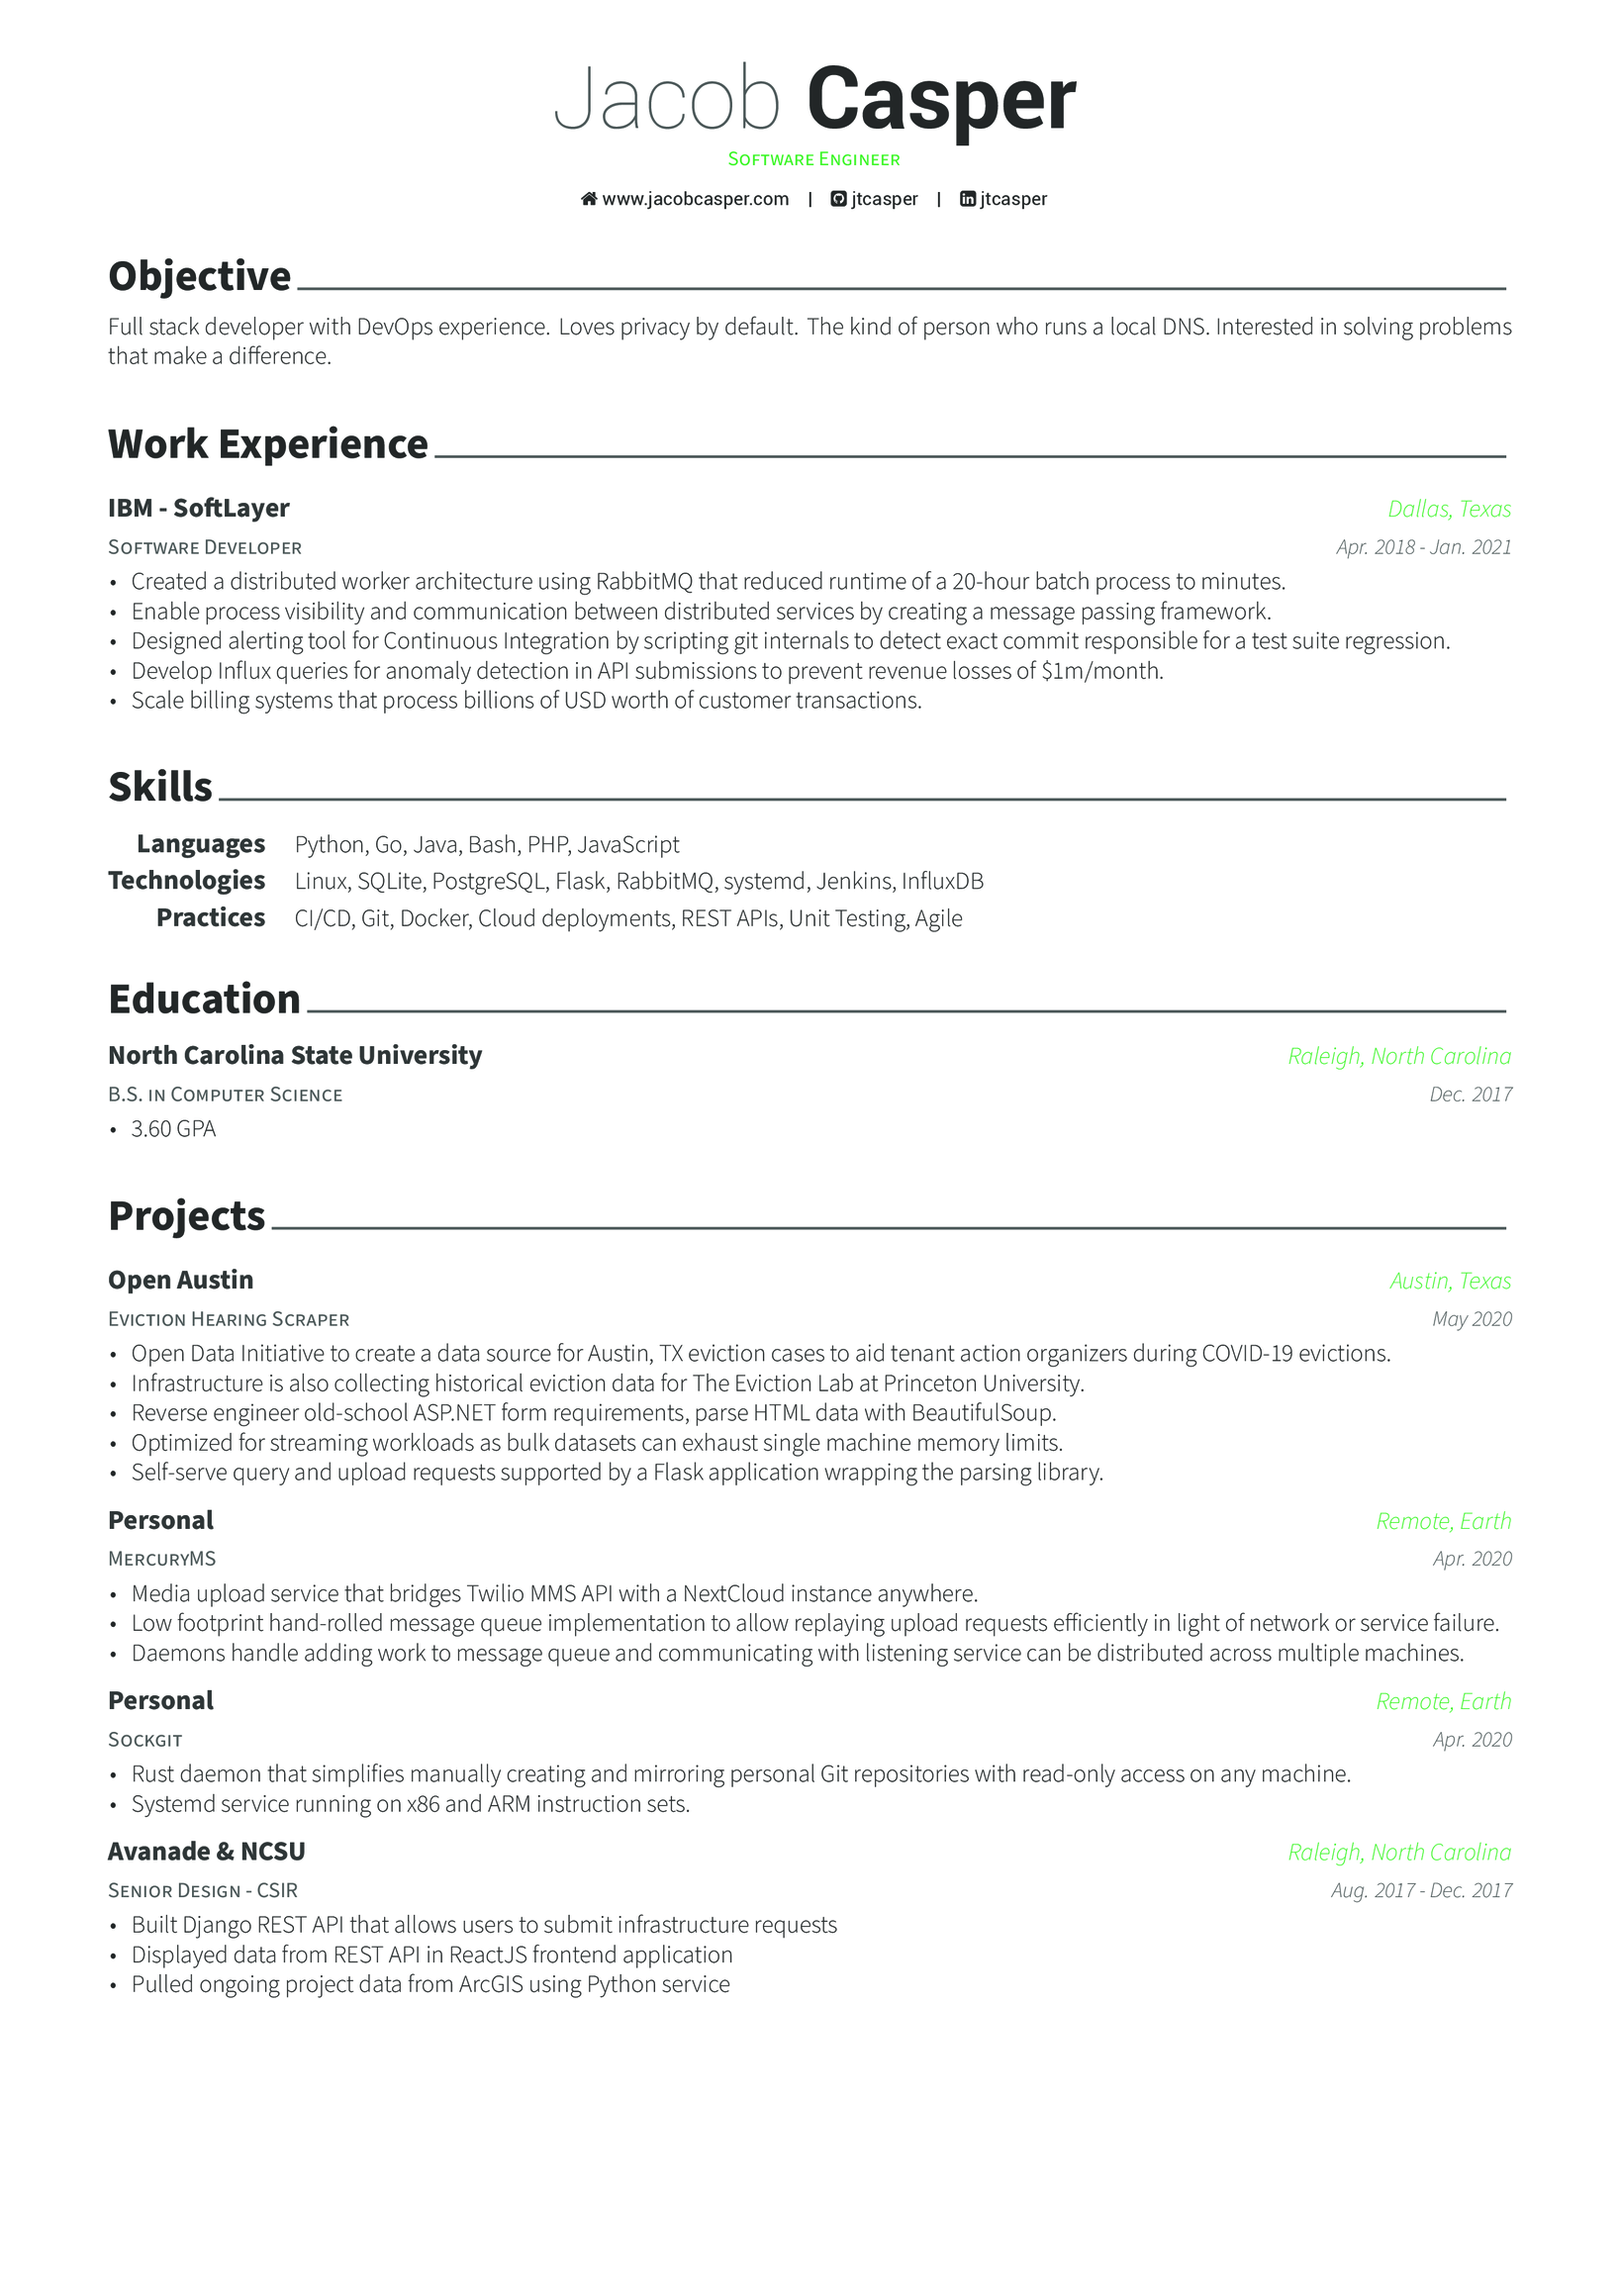
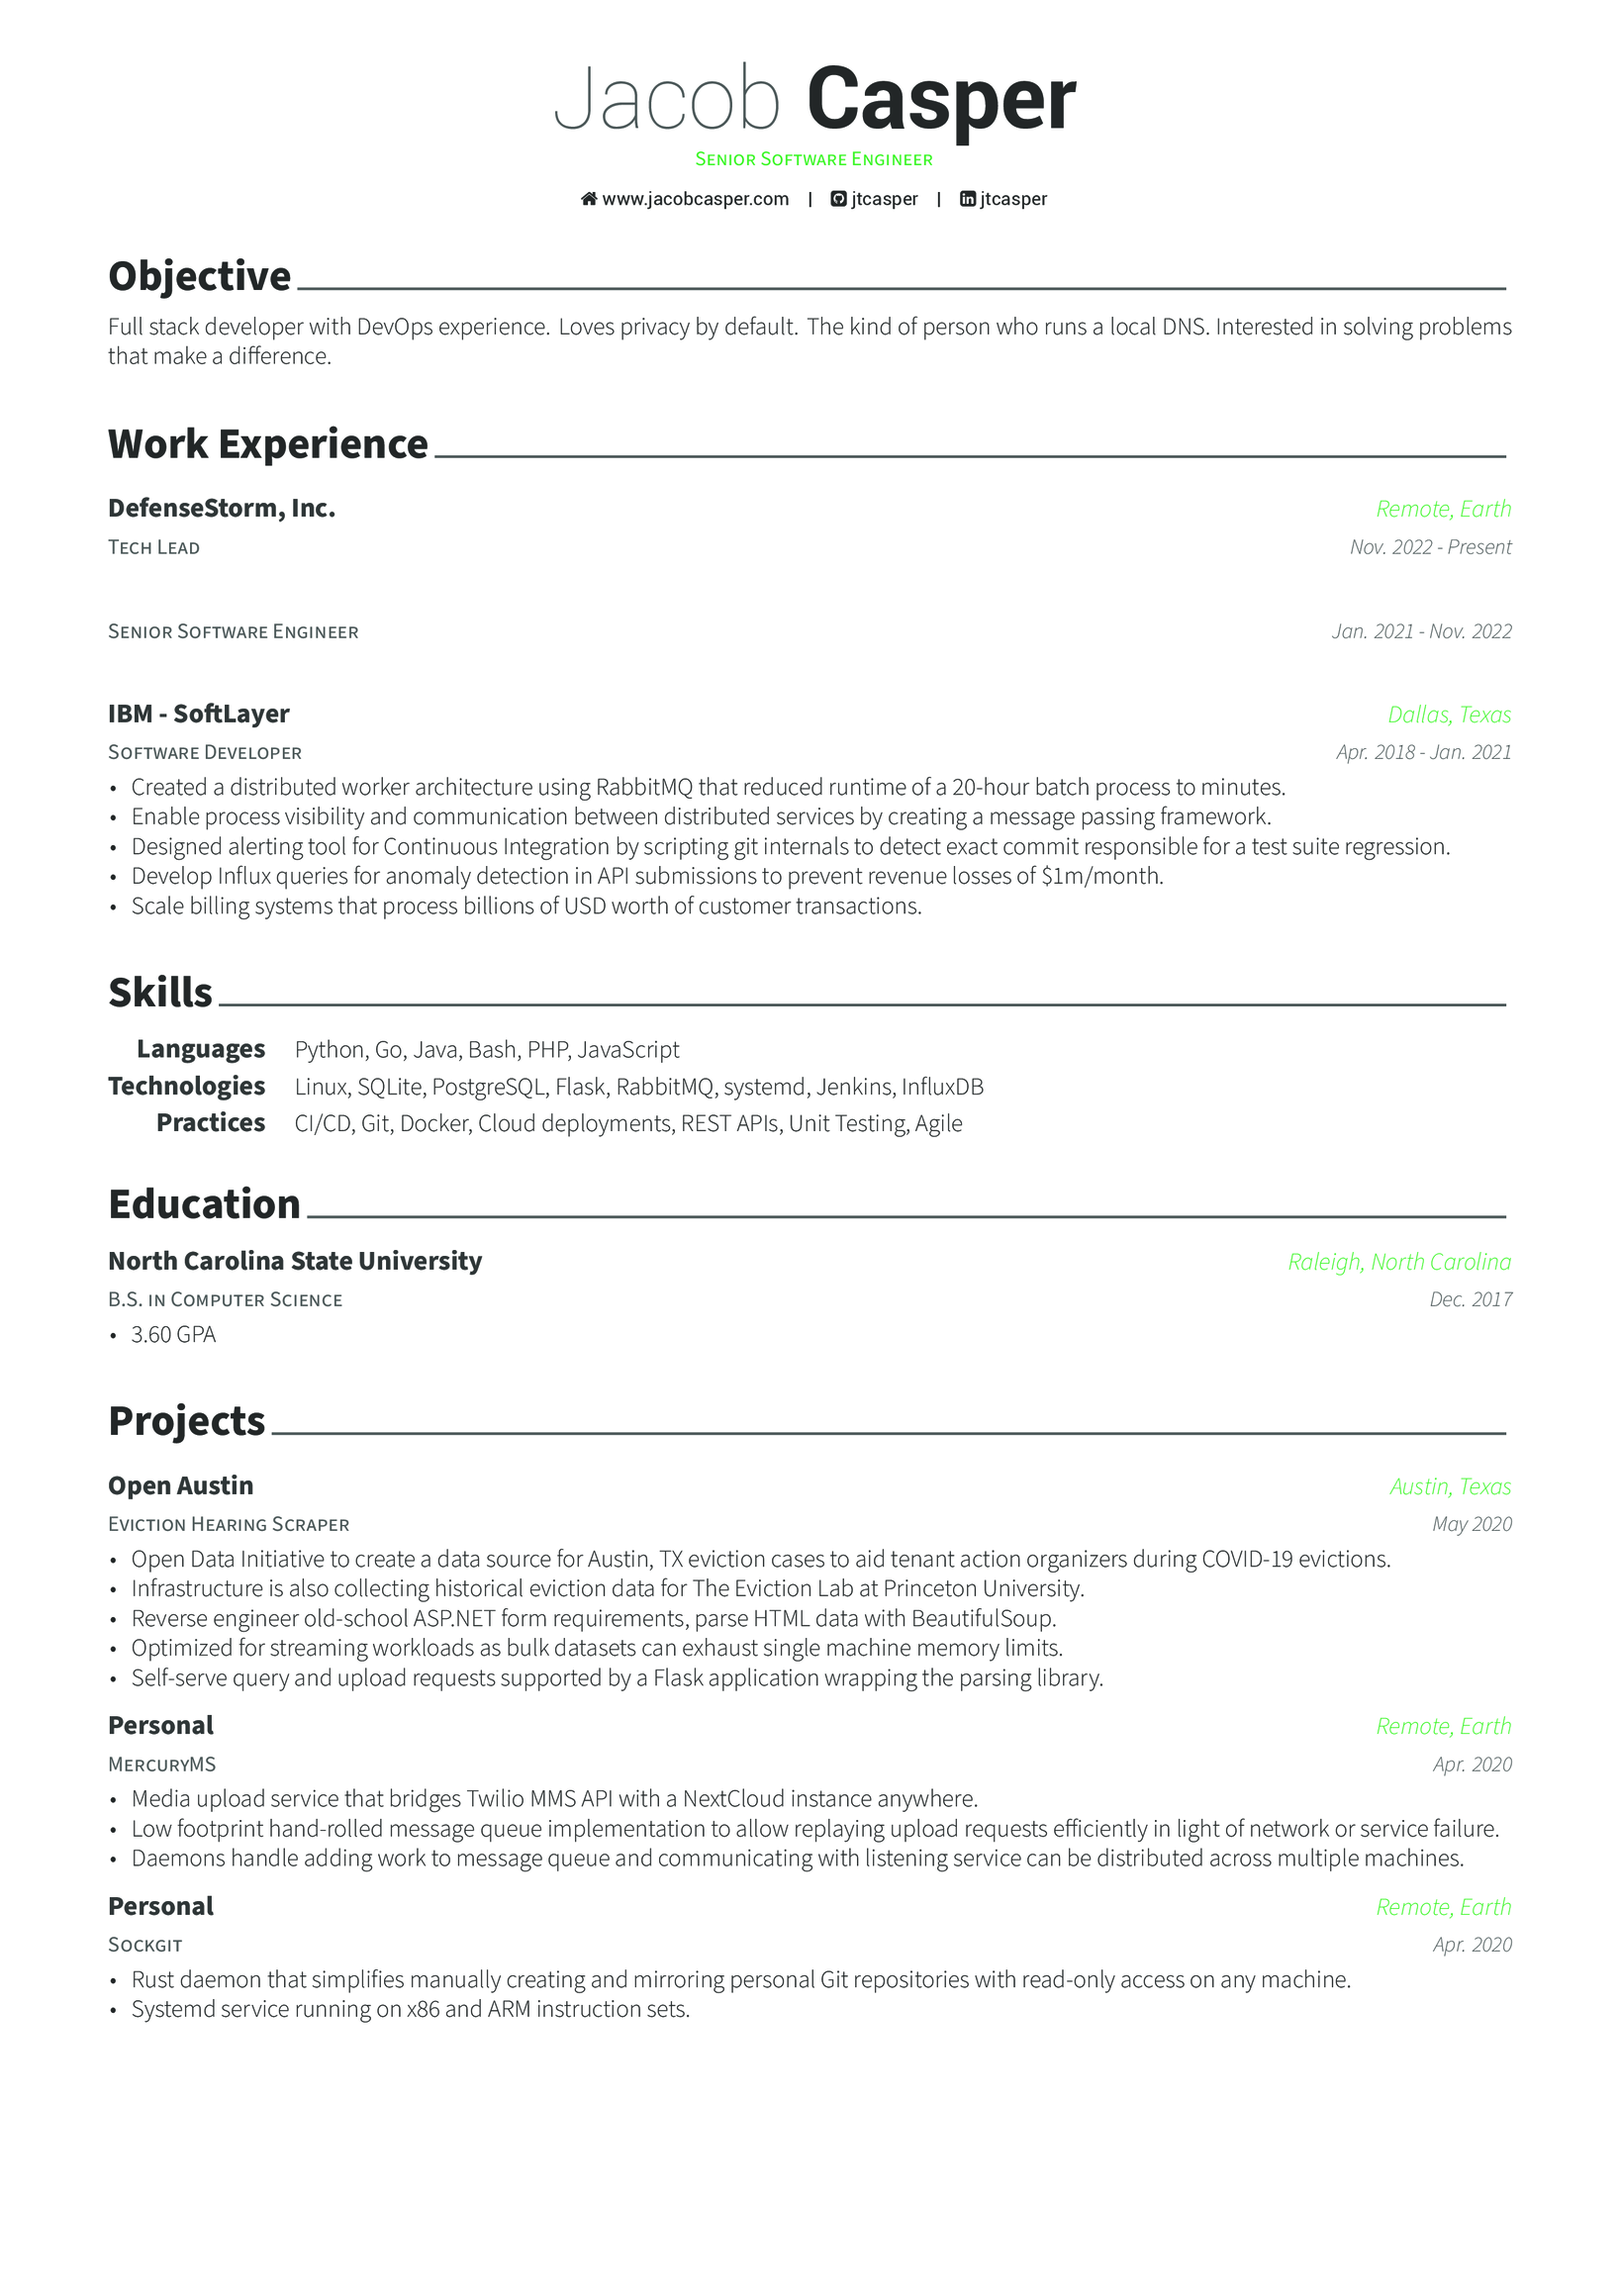
Add DefenseStorm positions

diff --git a/resume/projects.tex b/resume/projects.tex
@@ -55,18 +55,18 @@
 	%		\end{cvitems}
 	%	}
 	
-	\cventry
-		{Senior Design - CSIR} % Project title
-		{Avanade \& NCSU} % Organization
-		{Raleigh, North Carolina} % Location
-		{Aug. 2017 - Dec. 2017} % Date(s)
-	{
-		\begin{cvitems} % Description(s) of tasks/responsibilities
-			\item {Built Django REST API that allows users to submit infrastructure requests}
-			\item {Displayed data from REST API in ReactJS frontend application}
-			\item {Pulled ongoing project data from ArcGIS using Python service}
-		\end{cvitems}
-	}
+%	\cventry
+%		{Senior Design - CSIR} % Project title
+%		{Avanade \& NCSU} % Organization
+%		{Raleigh, North Carolina} % Location
+%		{Aug. 2017 - Dec. 2017} % Date(s)
+%	{
+%		\begin{cvitems} % Description(s) of tasks/responsibilities
+%			\item {Built Django REST API that allows users to submit infrastructure requests}
+%			\item {Displayed data from REST API in ReactJS frontend application}
+%			\item {Pulled ongoing project data from ArcGIS using Python service}
+%		\end{cvitems}
+%	}
 	
 %\cventry
 %	{Undergraduate Research - Computer Science} % Project title

diff --git a/resume/experience.tex b/resume/experience.tex
@@ -1,7 +1,27 @@
 \cvsection{Work Experience}
 
 \begin{cventries}
-	
+
+    \cventry
+    {Tech Lead}
+    {DefenseStorm, Inc.}
+    {Remote, Earth}
+    {Nov. 2022 - Present}
+    {
+        \begin{cvitems}
+        \end{cvitems}
+    }
+
+    \cventry
+    {Senior Software Engineer}
+    {} % Empty Org Name
+    {} % Empty Location
+    {Jan. 2021 - Nov. 2022}
+    {
+        \begin{cvitems}
+        \end{cvitems}
+    }
+
 	\cventry
 	{Software Developer}
 	{IBM - SoftLayer}

diff --git a/resume.tex b/resume.tex
@@ -7,7 +7,7 @@
 \colorlet{awesome}{awesome-nephritis}
 \setbool{acvSectionColorHighlight}{false}
 \name{Jacob}{Casper}
-\position{Software Engineer}
+\position{Senior Software Engineer}
 %\address{}
 %\mobile{}
 %\email{}
